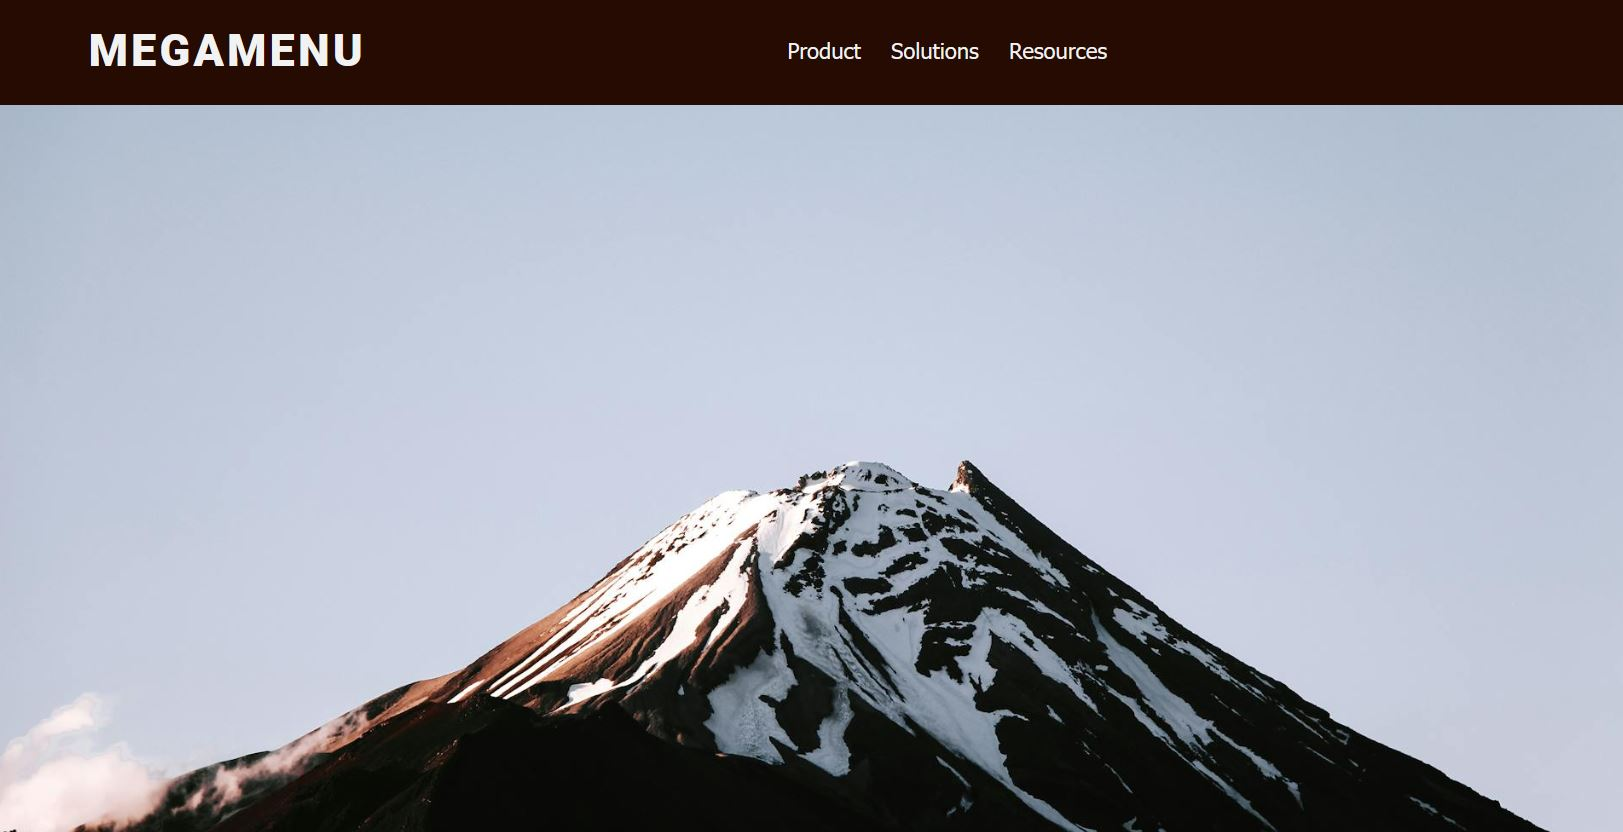
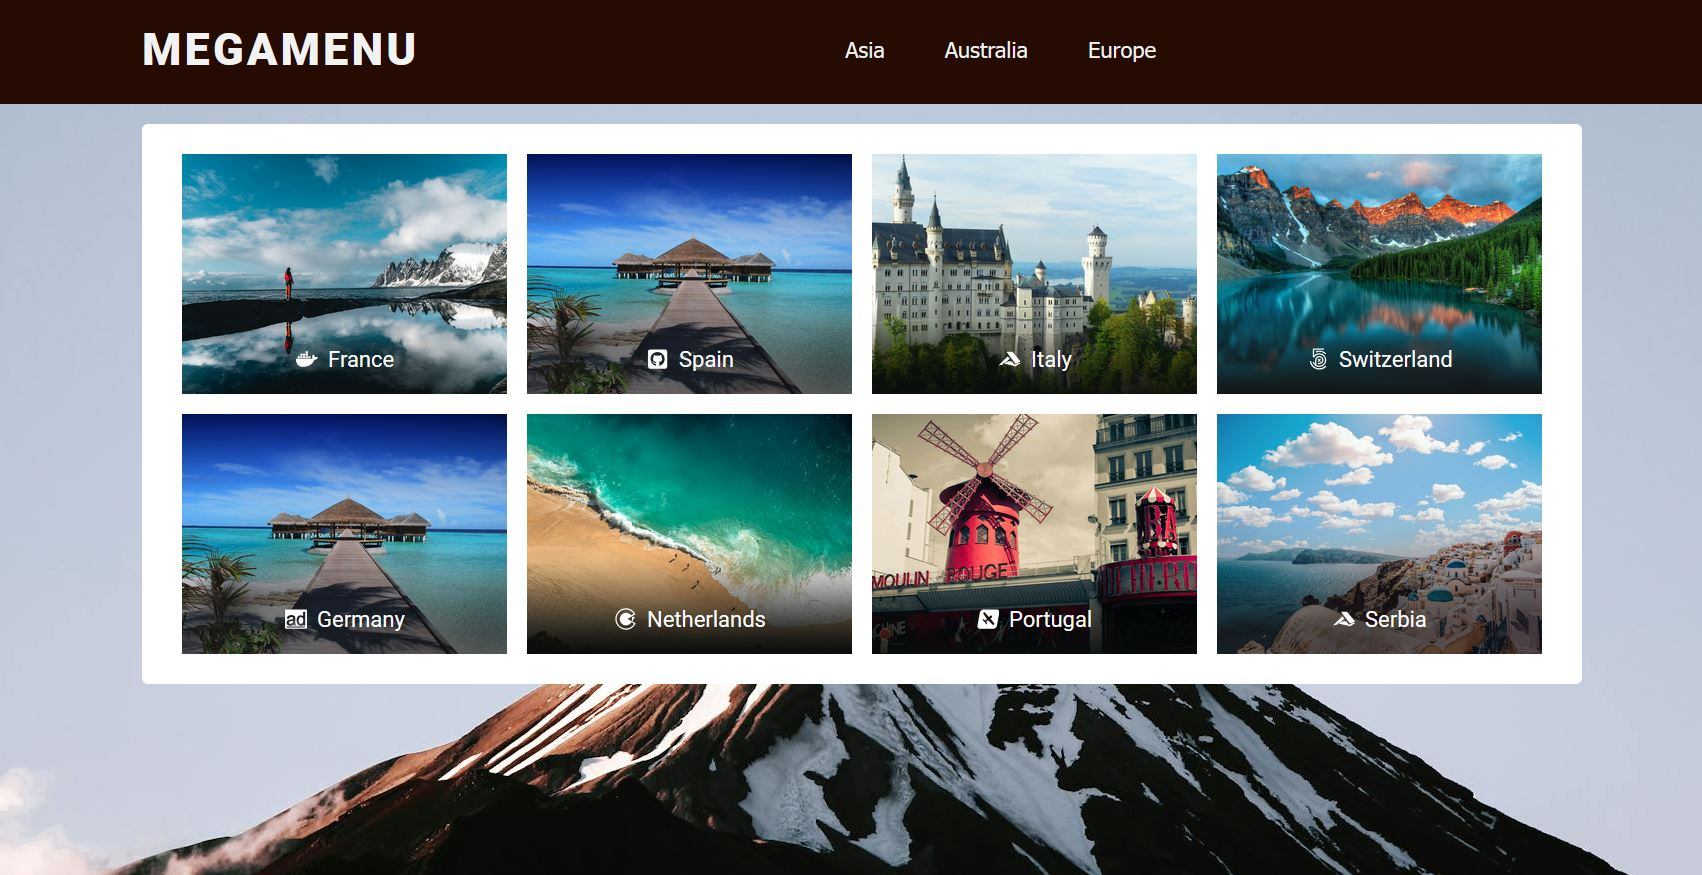
readMe update

diff --git a/README.md b/README.md
@@ -1,9 +1,13 @@
 ## React Mega-Menu Project
 
 **Project URL:**
+https://react-mega-menu-1111.netlify.app/
 
 **Key Features:**
 
-<a href='' target='_blank'>
+- Custom submenu design depending on the number of submenu items.
+- Hide submenu with the help of useRef() and getBoundingClientRect().
+
+<a href='https://react-mega-menu-1111.netlify.app/' target='_blank'>
 <img src='./src/assets/megamenu.jpg' width='700' alt='megamenu project image'>
 </a>
